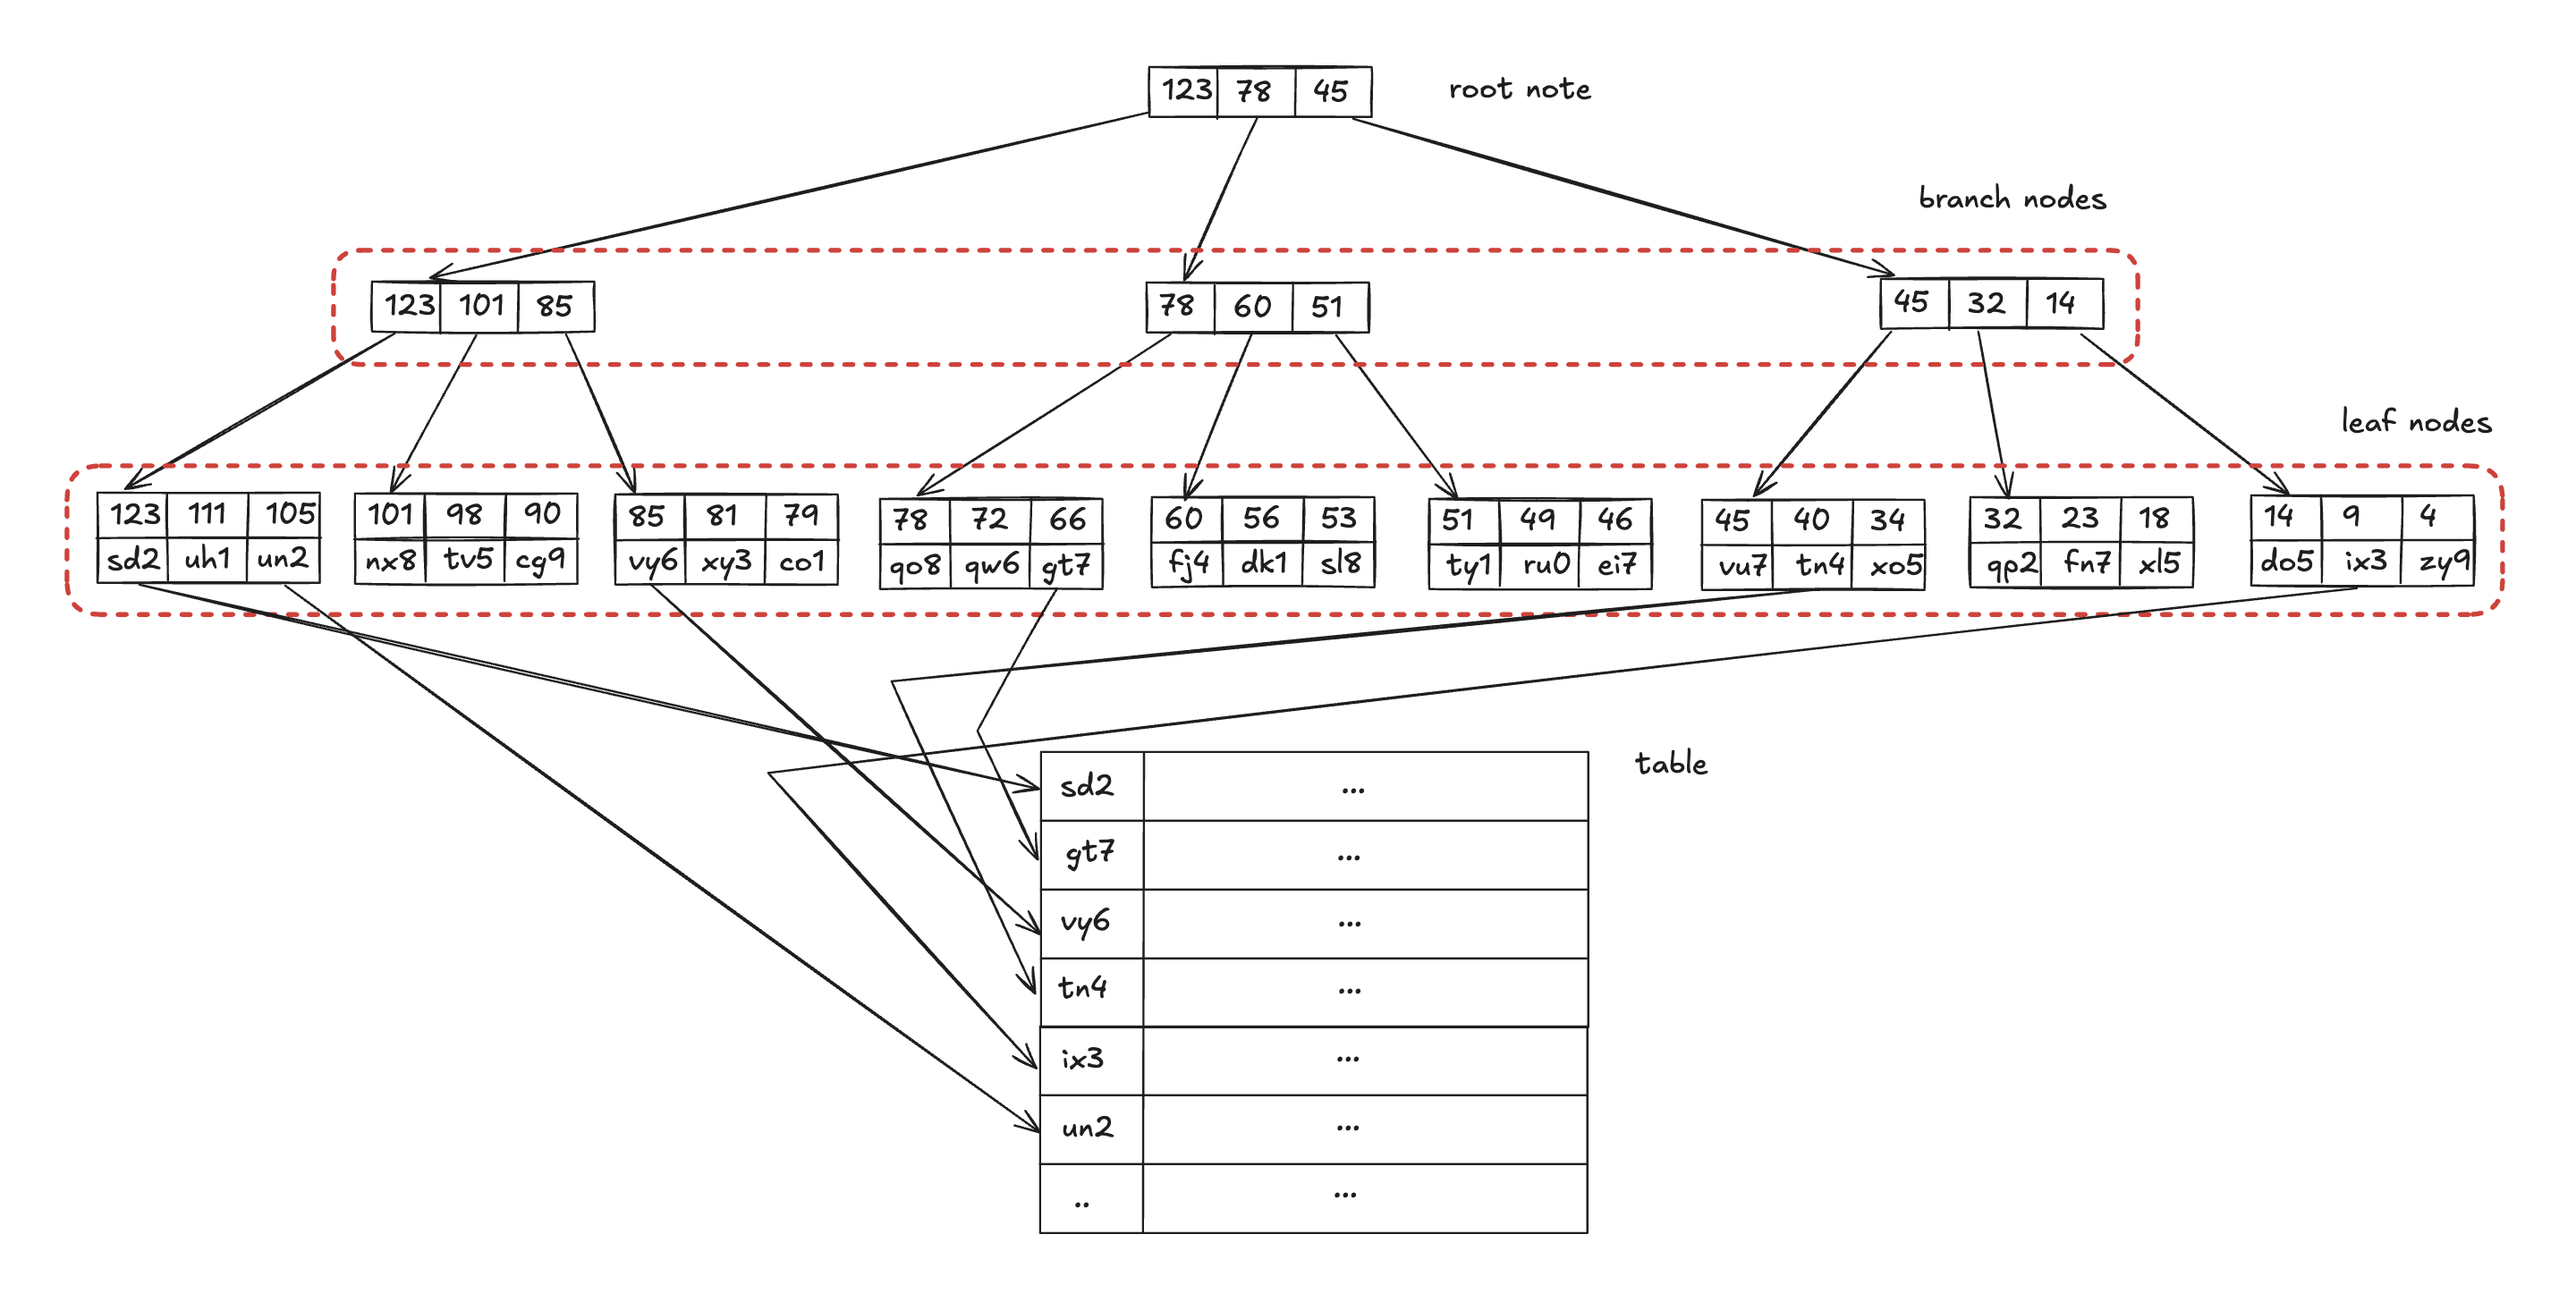
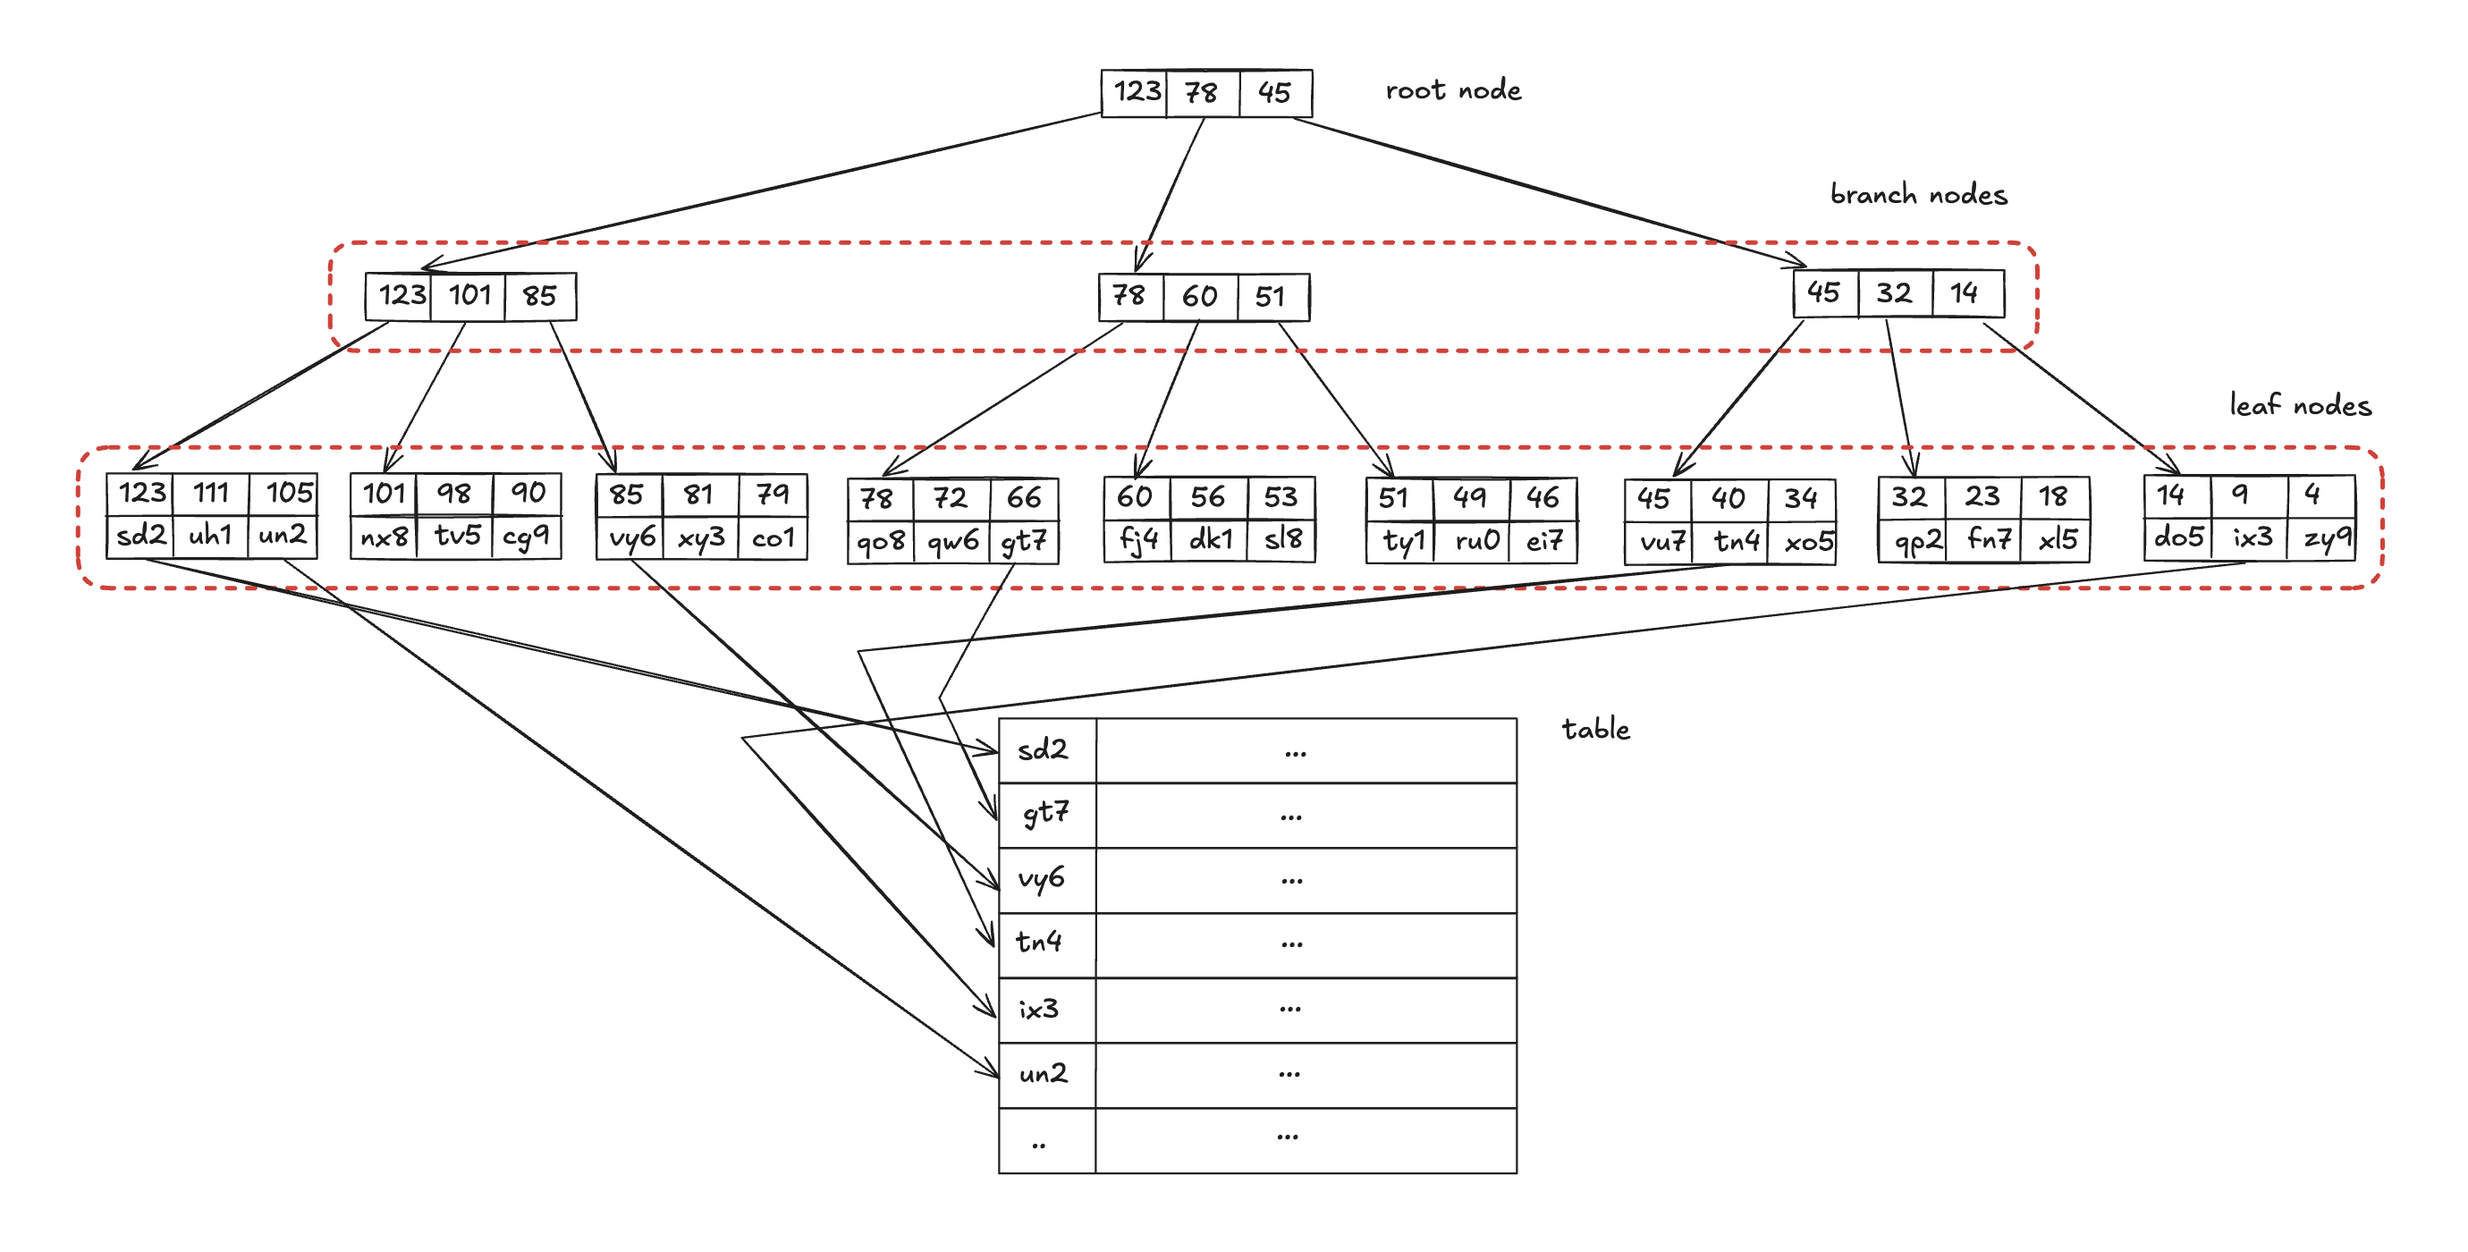
fixed a typo in the image

diff --git a/intro-sql/blogpost.md b/intro-sql/blogpost.md
@@ -827,10 +827,10 @@ Execution Time: 952.429 ms
 
 # <a id="optimizations" href="#table-of-contents">Optimizations</a>
 
-SQL performance when it comes to extracting data from tables is all about proper indexing. Indexing in this context means creating a separate data structure, similar to the index at the end of a book, based on how your application queries the data. An index requires its own disk space and holds a copy of the indexed table data, referring to the rest of the table information stored in a different place. B-tree index is the most important index.
+SQL performance when it comes to extracting data from tables is all about proper indexing. Indexing in this context means creating a separate data structure, similar to the index at the end of a book, based on how your application queries the data. An index requires its own disk space and holds a copy of the indexed table data, referring to the rest of the table information stored in a different place. B-tree index is the most important index. Below is an example of such B-tree index.
 
 <div style="text-align: left;">
-<img src="https://github.com/adamsoliev/bearblog/blob/main/intro-sql/images/btree.png?raw=true" alt="first example" height="600" style="border: 1px solid black;">
+<img src="https://github.com/adamsoliev/bearblog/blob/main/intro-sql/images/btree.png?raw=true" alt="first example" style="border: 1px solid black;">
 </div>
 
 #### WHERE
